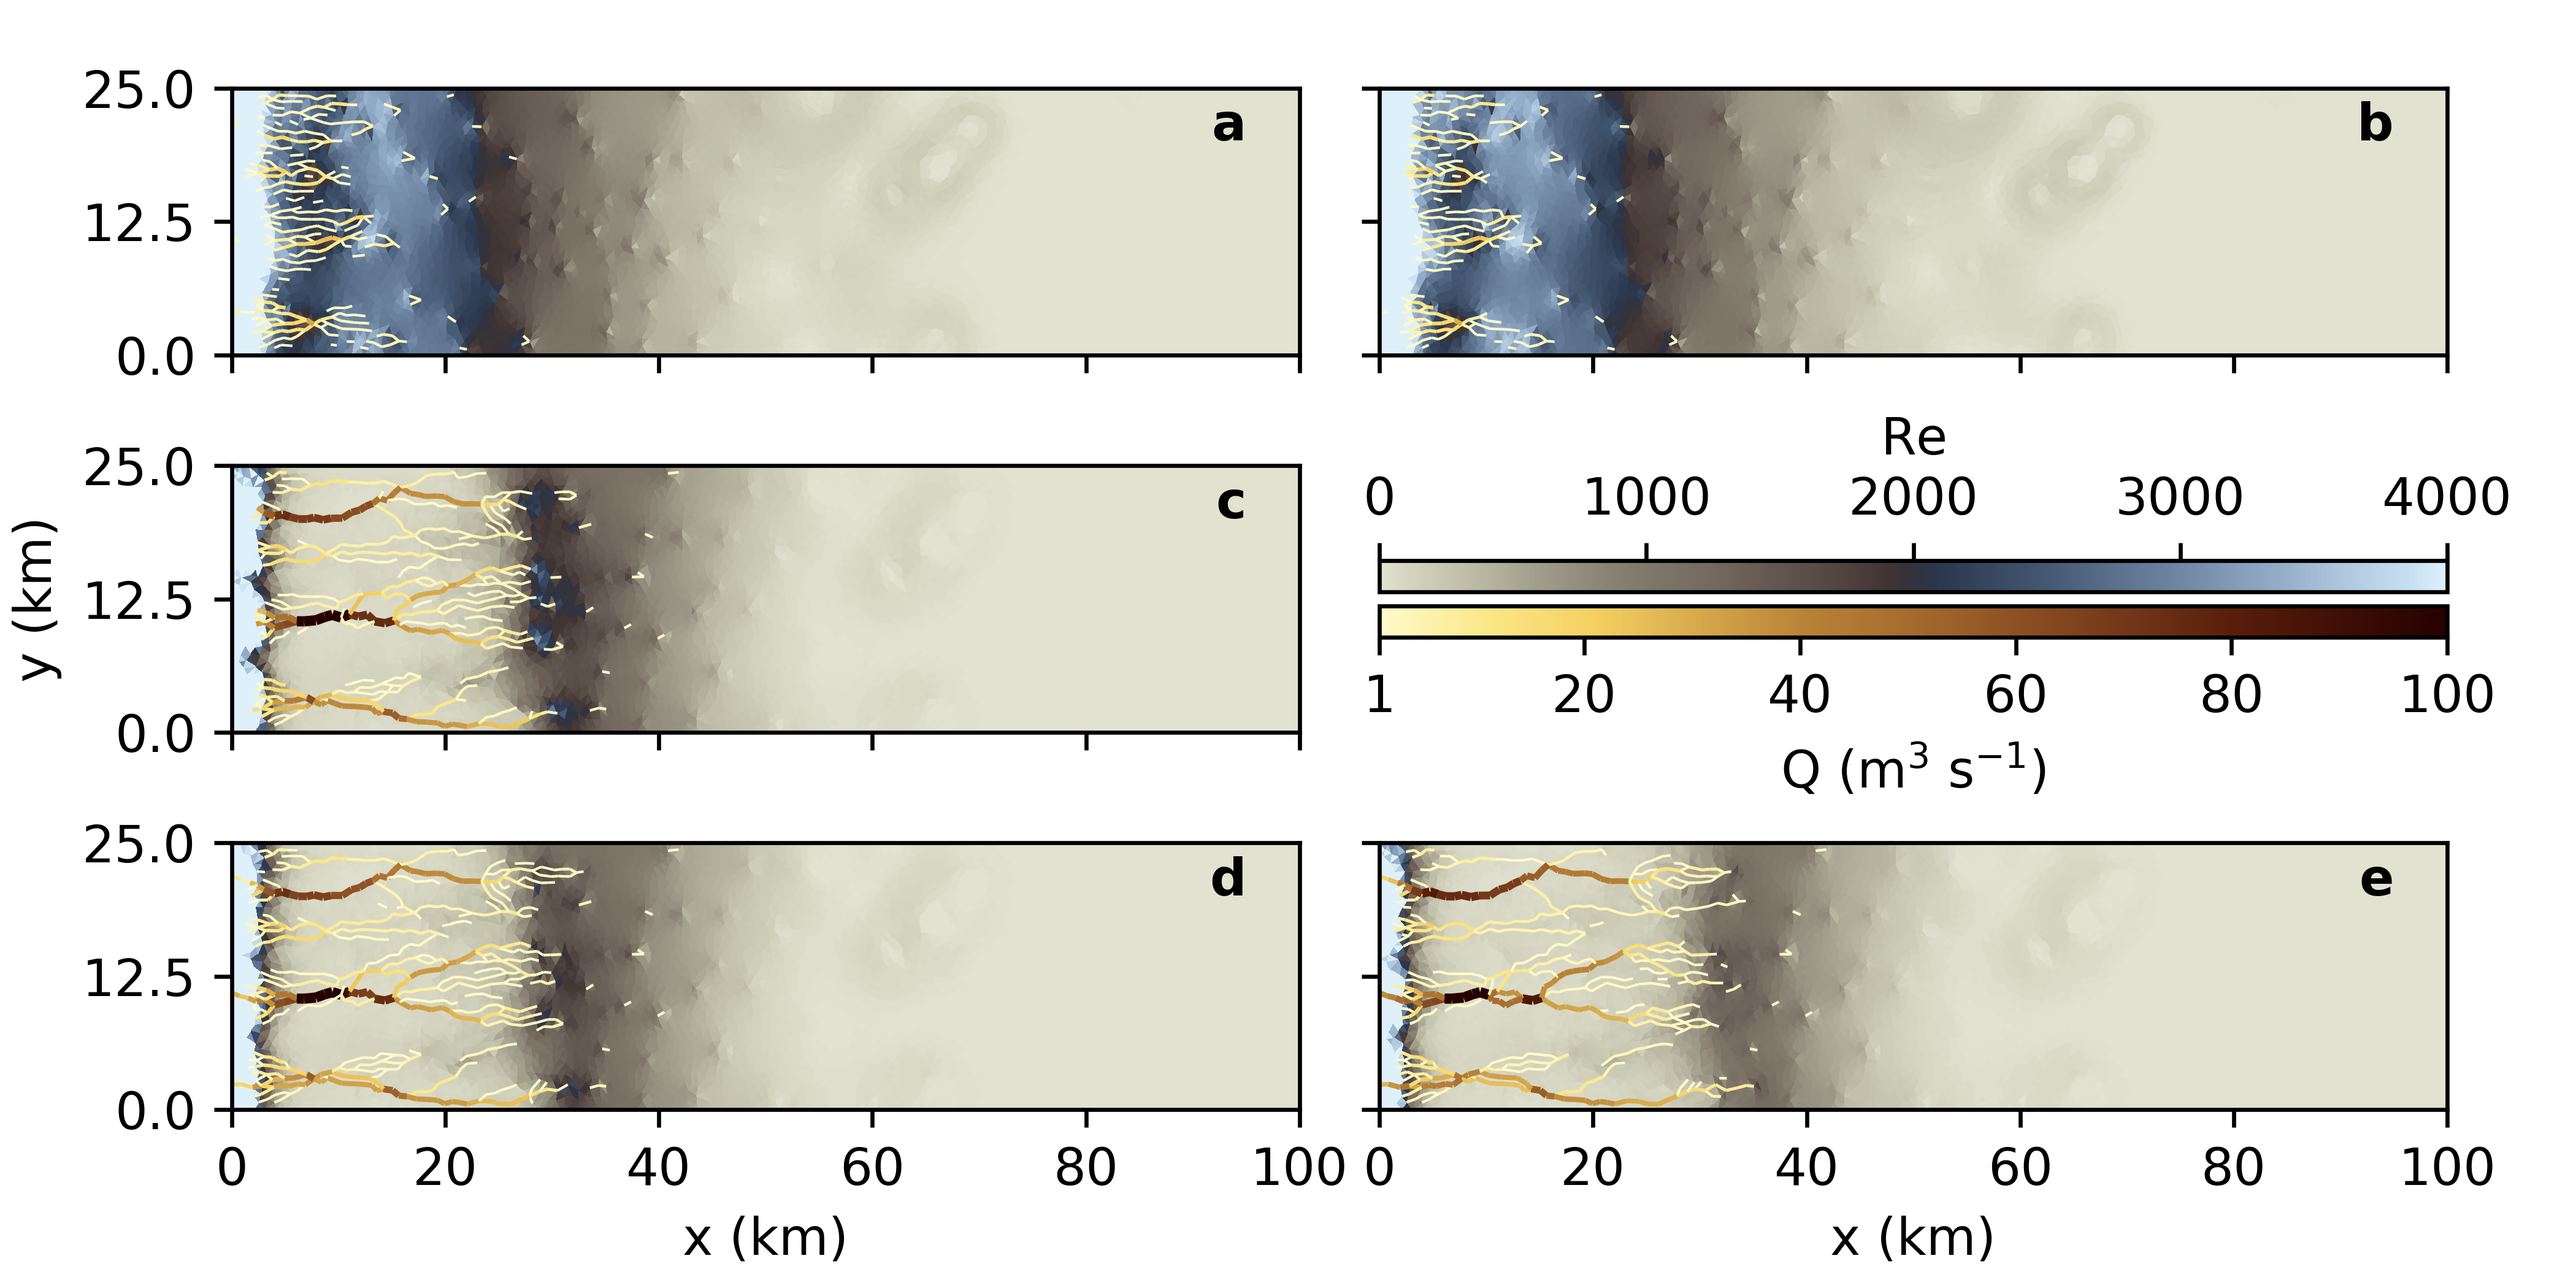
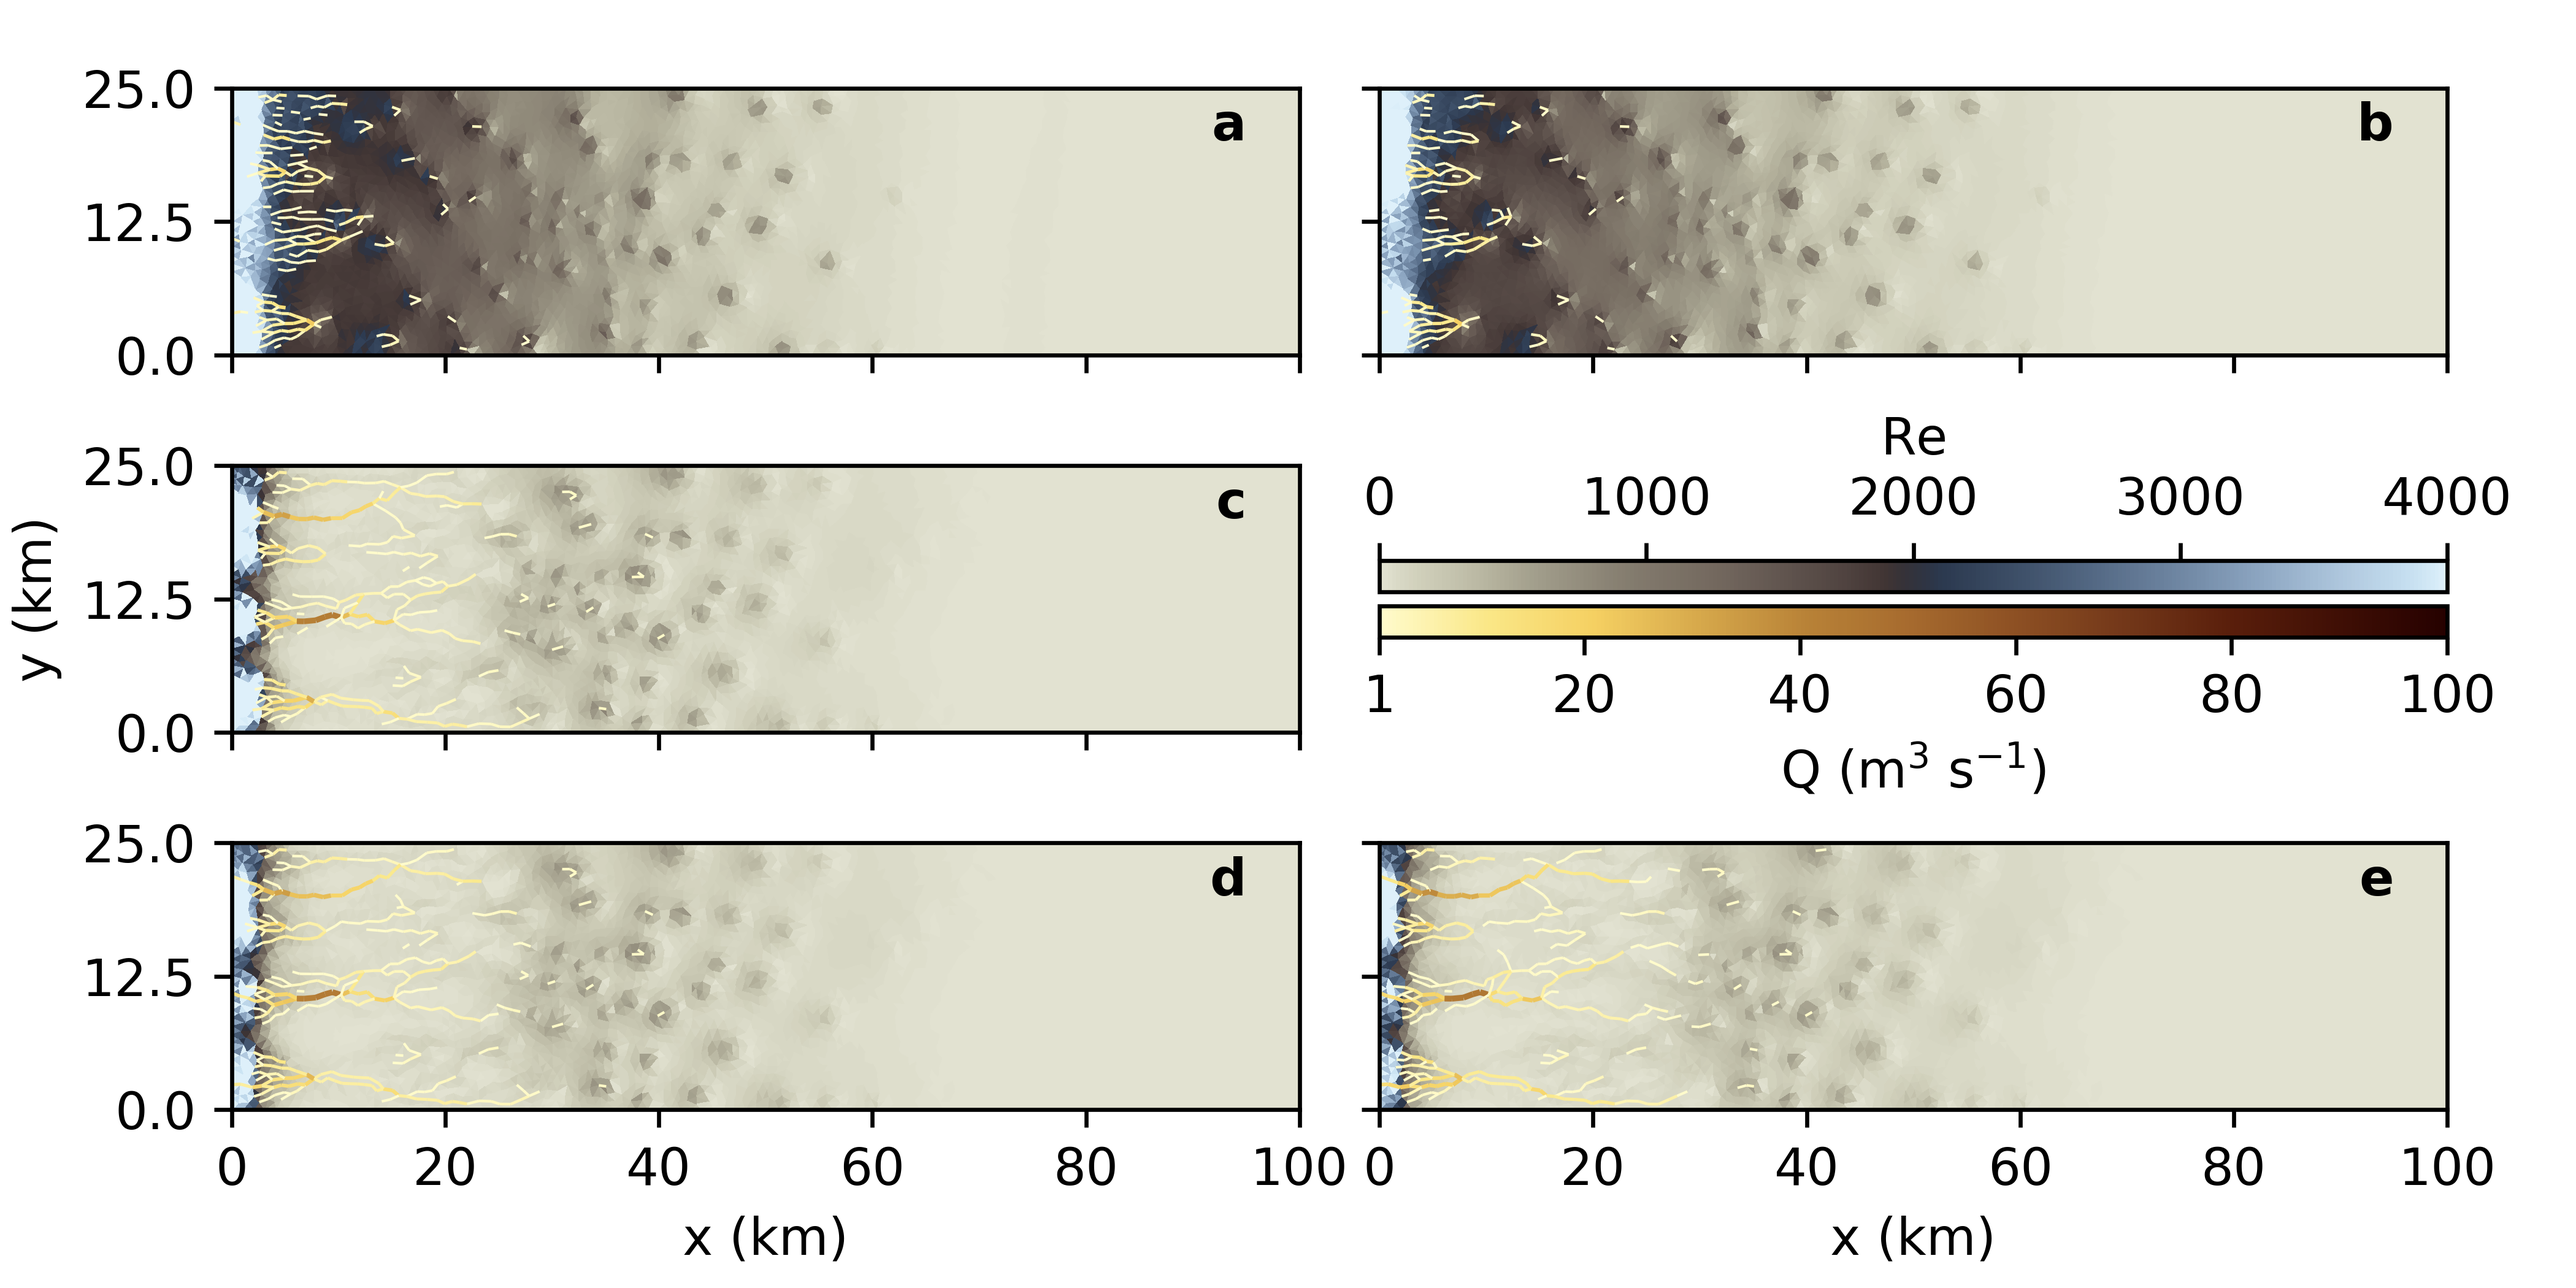
Tslice

diff --git a/analysis/make_Re.py b/analysis/make_Re.py
@@ -42,7 +42,7 @@ cases = [201, 202, 203, 204, 205]
 pattern = '../glads/01_kan_l_forcing_shmip_topo/RUN/output_%03d_seasonal.nc'
 fnames = [pattern % caseid for caseid in cases]
 figname = '01_Re_seasonal.png'
-fig_01 = plot_Re(fnames, figname, Qmin=1, Qmax=100, Re_ylim=(0, 4e3))
+fig_01 = plot_Re(fnames, figname, Qmin=1, Qmax=100, Re_ylim=(0, 4e3), tslice=365 + 185)
 
 ## Case 01b: Flat topo, KAN_L increased forcing
 cases = [1, 2, 3, 4, 5]
